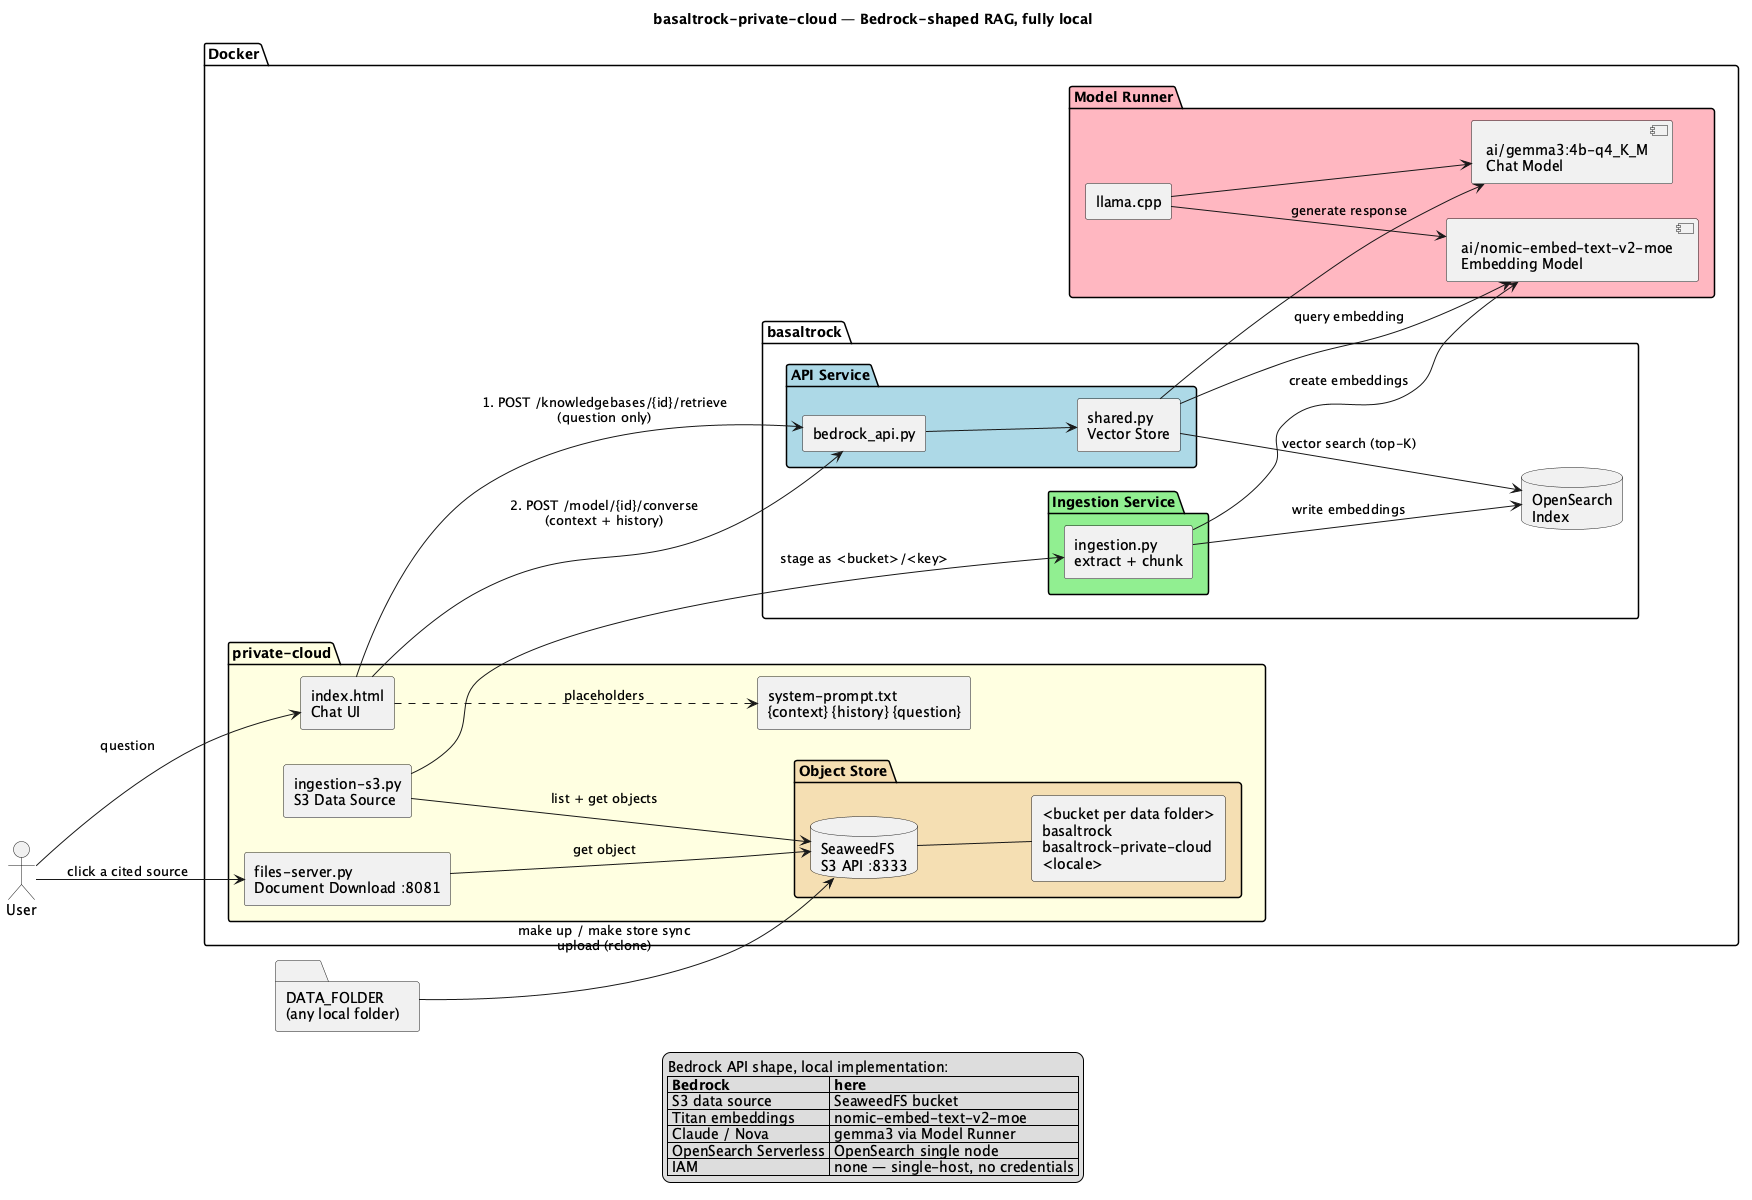
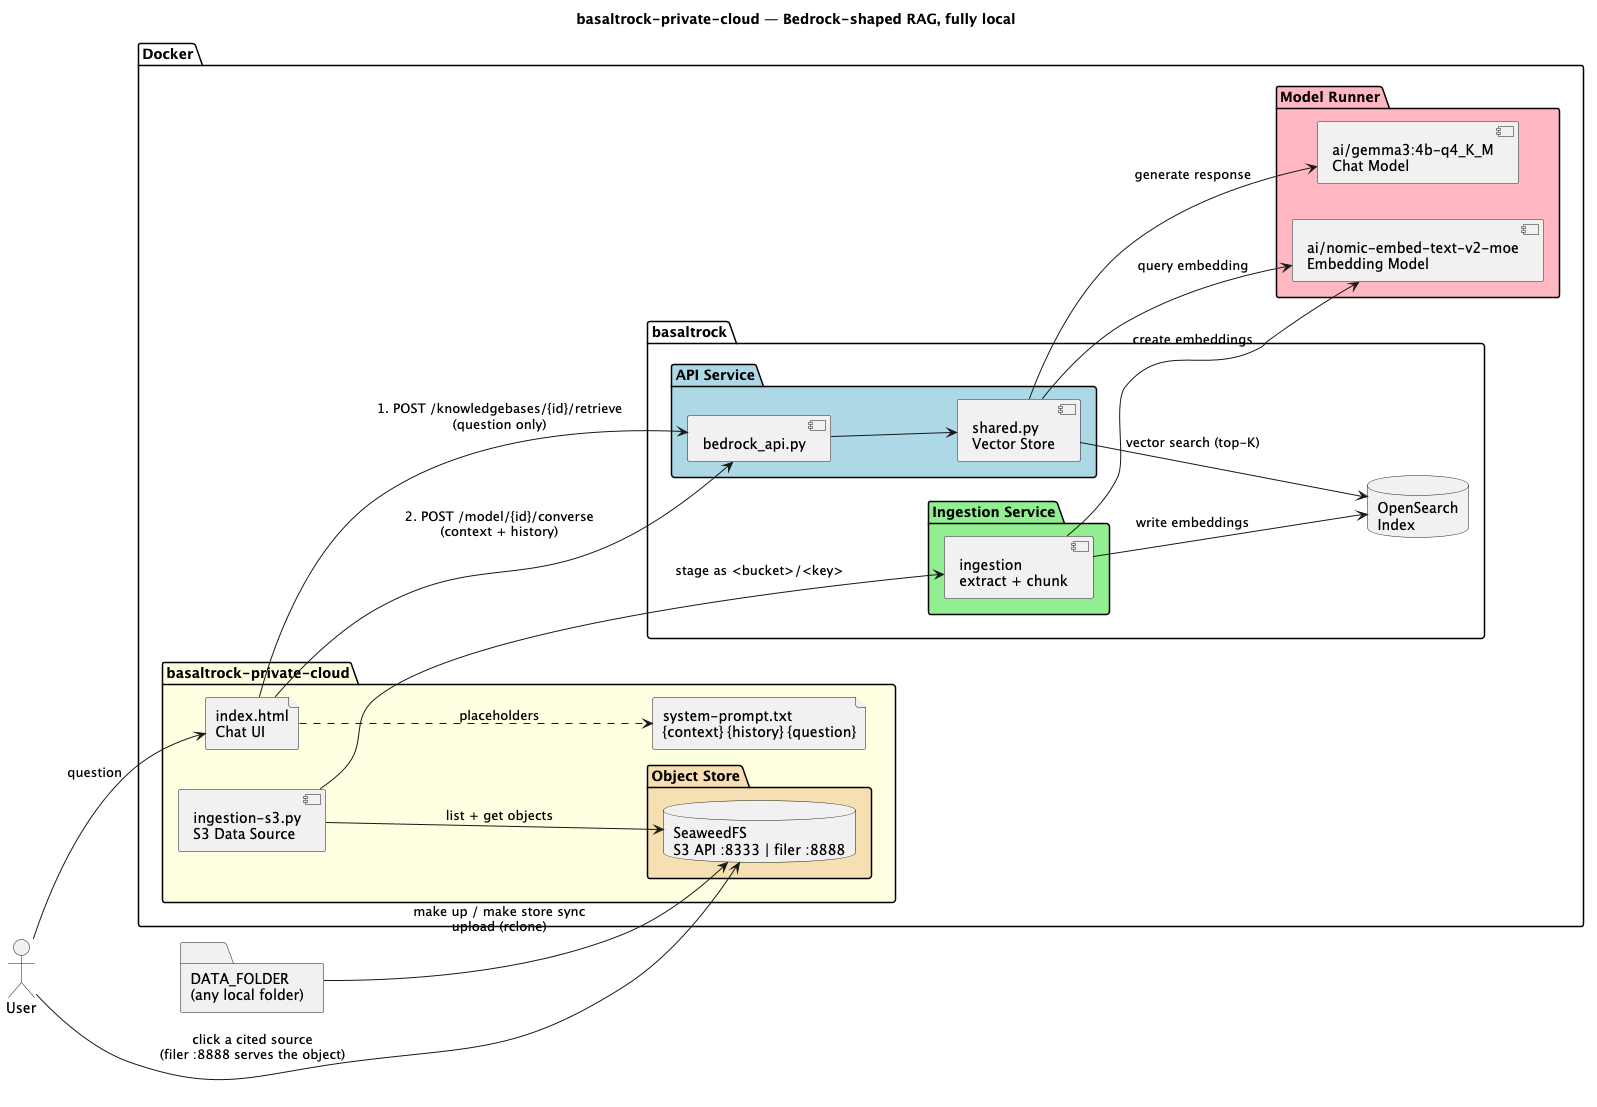
Serve document downloads from the SeaweedFS filer
Drop files-server.py and the files service: the filer on :8888 already
serves S3-written objects at /buckets/<bucket>/<key>, which is the path
the UI reconstructs. ?dl=1 makes the filer force attachment disposition.

Note the filer port is unauthenticated and browsable — the S3_BUCKETS
whitelist that files-server.py enforced is gone.

Changed region(s): [[0.0, 0.0, 1.0, 1.0], [0.8284, 0.3071, 0.9512, 0.5221], [0.0, 0.8907, 0.0307, 0.9214]]

diff --git a/index.html b/index.html
@@ -342,7 +342,7 @@
     const clearBtn = document.getElementById('clearBtn');
 
     const history = [];
-    const FILES_BASE = `${location.protocol}//${location.hostname}:{{ file_port | default(8081) }}`;
+    const FILES_BASE = `${location.protocol}//${location.hostname}:{{ filer_port | default(8888) }}/buckets`;
     const KEY_SEP = '⁄';
 
     clearBtn.addEventListener('click', () => {
@@ -377,7 +377,7 @@
             const score = ref.score ? ` | Relevance: ${(ref.score * 100).toFixed(1)}%` : '';
             const uri = ref.location?.s3Location?.uri || '';
             const path = uri.replace(/^[a-z0-9]+:\/\//i, '').split(KEY_SEP).join('/');
-            const href = FILES_BASE + '/' + path.split('/').map(encodeURIComponent).join('/');
+            const href = FILES_BASE + '/' + path.split('/').map(encodeURIComponent).join('/') + '?dl=1';
             const label = path
                 ? `<a class="source-dl" href="${href}" download>${escapeHtml(path)}</a>`
                 : '<strong>document</strong>';
